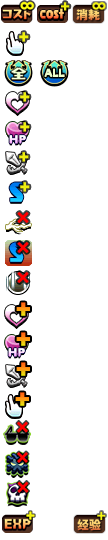
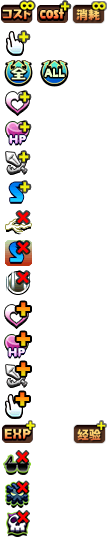
更新徽章图片

Changed region(s): [[0.0, 0.7704, 0.3333, 1.0], [0.6667, 0.9185, 1.0, 1.0], [0.6667, 0.7704, 1.0, 0.8296]]

diff --git a/style.css b/style.css
@@ -962,8 +962,7 @@ ul{
 	float: left;
 	margin-right:5px;
 }
-.monsterinfo-box .monsterinfo-line>div,
-.monsterinfo-box .monsterinfo-line>ul
+.monsterinfo-box .monsterinfo-line>div
 {
 	display:inline-block;
 	vertical-align: top;
@@ -1031,8 +1030,8 @@ ul{
 .monster-rare[data-rarity='8']::before{content: "8";}
 .monster-rare[data-rarity='9']::before{content: "9";}
 .monster-rare[data-rarity='10']::before{content: "10";}
-.monsterinfo-box .monster-type{
-	font-size: 0;
+.monsterinfo-box .monster-type {
+	display: inline;
 }
 .monsterinfo-box .monster-type .type-name{
 	display:inline-block;

diff --git a/languages/ko.css b/languages/ko.css
@@ -302,16 +302,16 @@
 	content: "찾기 닫기";
 }
 /*Some icons, style different from the Japanese version*/
-.awoken-40,
-.awoken-46,
-.awoken-47,
-.awoken-48,
+.awoken-icon[data-awoken-icon='40'],
+.awoken-icon[data-awoken-icon='46'],
+.awoken-icon[data-awoken-icon='47'],
+.awoken-icon[data-awoken-icon='48'],
 .type-icon[data-type-icon='12'],
 .type-icon[data-type-icon='9']
 {
 	background-position-x: -32px;
 }
-.latent-icon-14
+.latent-icon[data-latent-icon='14']
 {
 	background-position-x: -76px;
 }

diff --git a/languages/en.css b/languages/en.css
@@ -310,16 +310,16 @@
 }
 
 /*Some icons, style different from the Japanese version*/
-.awoken-40,
-.awoken-46,
-.awoken-47,
-.awoken-48,
+.awoken-icon[data-awoken-icon='40'],
+.awoken-icon[data-awoken-icon='46'],
+.awoken-icon[data-awoken-icon='47'],
+.awoken-icon[data-awoken-icon='48'],
 .type-icon[data-type-icon='12'],
 .type-icon[data-type-icon='9']
 {
 	background-position-x: -32px;
 }
-.latent-icon-14
+.latent-icon[data-latent-icon='14']
 {
 	background-position-x: -76px;
 }

diff --git a/languages/zh-TW.css b/languages/zh-TW.css
@@ -308,13 +308,13 @@
 	content: "關閉搜索";
 }
 /*Some icons, style different from the Japanese version*/
-.awoken-46,
-.awoken-47
+.awoken-icon[data-awoken-icon='46'],
+.awoken-icon[data-awoken-icon='47']
 {
-	background-position-x: -64px;
+	background-position-x: calc(-32px * 2);
 }
 .badge[data-badge-icon='0']::before,
-.badge[data-badge-icon='17']::before
+.badge[data-badge-icon='14']::before
 {
-	background-position-x: -72px;
+	background-position-x: calc(-36px * 2);
 }

diff --git a/languages/zh.css b/languages/zh.css
@@ -308,13 +308,13 @@
 	content: "关闭搜索";
 }
 /*Some icons, style different from the Japanese version*/
-.awoken-46,
-.awoken-47
+.awoken-icon[data-awoken-icon='46'],
+.awoken-icon[data-awoken-icon='47']
 {
-	background-position-x: -64px;
+	background-position-x: calc(-32px * 2);
 }
 .badge[data-badge-icon='0']::before,
-.badge[data-badge-icon='17']::before
+.badge[data-badge-icon='14']::before
 {
-	background-position-x: -72px;
+	background-position-x: calc(-36px * 2);
 }

diff --git a/script.js b/script.js
@@ -633,6 +633,7 @@ function initialize()
 		{//每个有链接的符卡，把它们被链接的符卡的进化根修改到链接前的
 			const _m = Cards[parseInt(linkRes[1],10)];
 			_m.evoRootId = m.evoRootId;
+			_m.henshined = true;
 		}
 	});
 	monstersList.appendChild(fragment);
